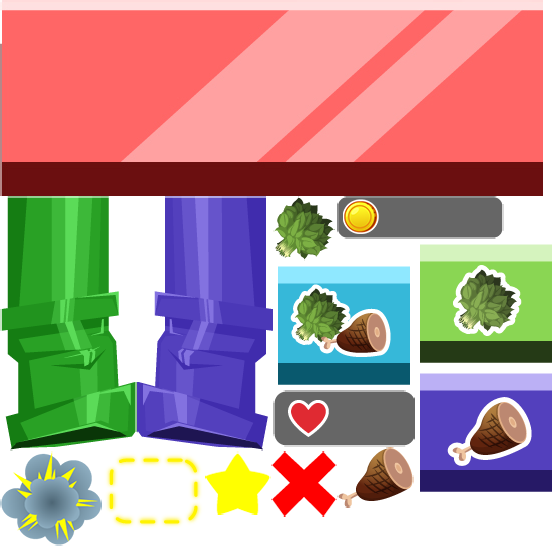
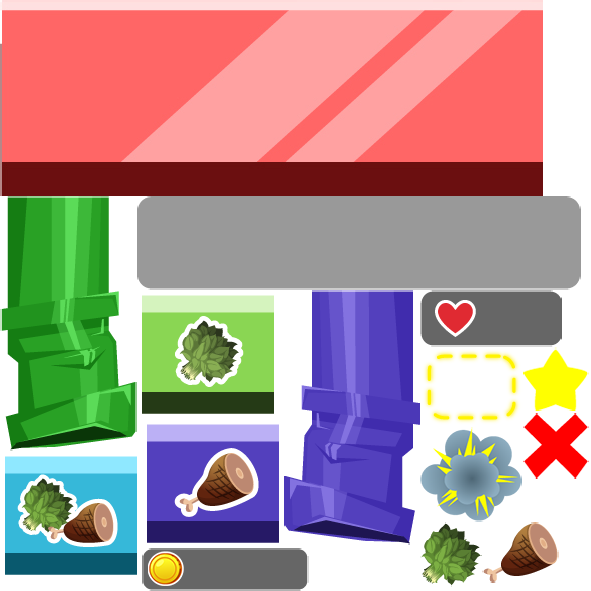
wild feed, education fixed

diff --git a/newStructure/minigames/wildFeed/js/scenes/wildFeed.js b/newStructure/minigames/wildFeed/js/scenes/wildFeed.js
@@ -163,6 +163,7 @@ var wildFeed = function(){
     var hand
     var animalsGroup
     var buttonsGroup
+    var textGroup
     var emojys
     var rand
     var index
@@ -677,7 +678,34 @@ var wildFeed = function(){
         emojys.setSkinByName("normal")
     }
     
+    function createText(){
+        
+        textGroup = game.add.group()
+        textGroup.alpha = 0
+        sceneGroup.add(textGroup)
+        
+        var fontStyle = {font: "60px VAGRounded", fontWeight: "bold", fill: "#FFFFFF", align: "center"}
+        
+        var container = textGroup.create(game.world.centerX, game.world.centerY + 150, "atlas.wildFeed", "container")
+        container.anchor.setTo(0.5)
+        
+        var name = new Phaser.Text(sceneGroup.game, container.centerX, container.centerY + 10, '', fontStyle)
+        name.anchor.setTo(0.5)
+        //name.setText('')
+        textGroup.add(name)
+        textGroup.text = name
+        
+        if(localization.getLanguage() === 'EN'){
+            textGroup.words = ["Herbivorous", "Omnivores", "Carnivorous"]
+        }
+        else{
+            textGroup.words = ["Herbívoros", "Omnívoros", "Carnívoros"]
+        }
+    }
+    
     function superSizeMe(){
+        
+        var fontStyle = {font: "22px VAGRounded", fontWeight: "bold", fill: "#FFFFFF", align: "center"}
         
         var board = sceneGroup.create(0, game.world.height, "atlas.wildFeed", "board")
         board.anchor.setTo(0, 1)
@@ -687,7 +715,10 @@ var wildFeed = function(){
         var pivot = -1
         
         buttonsGroup = game.add.group()
+        buttonsGroup.posX = []
         sceneGroup.add(buttonsGroup)
+        
+        var buttonsName = game.add.group()
         
         for(var i = 0; i < name.length; i++){
             
@@ -696,7 +727,14 @@ var wildFeed = function(){
             button.tag = i
             button.inputEnabled = true
             button.events.onInputDown.add(feedThem, this)
+            button.text
             pivot++
+            buttonsGroup.posX[buttonsGroup.posX.length] = button.x
+            
+            var text = new Phaser.Text(sceneGroup.game, button.centerX, button.centerY + 30, textGroup.words[i], fontStyle)
+            text.anchor.setTo(0.5, 0)
+            //text.setText('')
+            buttonsName.add(text)
         }
         
         buttonsGroup.setAll("tint", 0x606060)
@@ -713,6 +751,9 @@ var wildFeed = function(){
        
         buttonsGroup.children[0].food = vegan
         buttonsGroup.children[2].food = meat
+        
+        buttonsGroup.add(buttonsName)
+        buttonsGroup.buttonsName = buttonsName
     }
     
     function feedThem(btn){
@@ -785,6 +826,8 @@ var wildFeed = function(){
             }
         }
         
+        game.add.tween(textGroup).to({alpha: 1}, 500, Phaser.Easing.linear, true).yoyo(true, 1000)
+        
         if(lives !== 0){
             game.time.events.add(1500,function(){
                 emojys.alpha = 0
@@ -801,6 +844,7 @@ var wildFeed = function(){
         
         buttonsGroup.setAll("tint", 0x606060)
         rand = getRand()
+        textGroup.text.setText(textGroup.words[rand])
         index = game.rnd.integerInRange(0, animalsGroup.children[rand].length - 1)
         animalsGroup.setAll("alpha", 0)
         animalsGroup.children[rand].alpha = 1
@@ -808,14 +852,21 @@ var wildFeed = function(){
         var animal = animalsGroup.children[rand].children[index]
         animal.setAnimationByName(0, "WALK", true)
         
+        var delay = 0
+        
         game.add.tween(animal).to({x: game.world.centerX}, 2000, Phaser.Easing.linear, true).onComplete.add(function(){
             animal.setAnimationByName(0, "IDLE", true)
             emojys.x = game.world.centerX - animal.width * 0.7
             emojys.y = game.world.height - 150 - animal.height * 0.9
-            buttonsGroup.setAll("tint", 0xffffff)
-            emojys.alpha = 1
-            emojys.setAnimationByName(0, "CONFUCED", true)
-            gameActive = true
+            if(pointsBar.number > 9){
+                delay = scramble()
+            }
+            game.time.events.add(delay,function(){
+                buttonsGroup.setAll("tint", 0xffffff)
+                emojys.alpha = 1
+                emojys.setAnimationByName(0, "CONFUCED", true)
+                gameActive = true
+            },this)
         })
     }
     
@@ -825,6 +876,27 @@ var wildFeed = function(){
             return getRand()
         else
             return x     
+    }
+    
+    function scramble(){
+        
+        Phaser.ArrayUtils.shuffle(buttonsGroup.posX)
+                 
+        game.add.tween(buttonsGroup).to({alpha: 0}, 500, Phaser.Easing.linear, true).onComplete.add(function(){
+            
+            for(var i = 0; i < buttonsGroup.length - 1; i++){
+                buttonsGroup.children[i].x = buttonsGroup.posX[i]
+                buttonsGroup.buttonsName.children[i].x = buttonsGroup.posX[i]
+            }
+            
+            if(pointsBar.number > 19){
+                buttonsGroup.buttonsName.alpha = 0
+            }
+            
+            game.add.tween(buttonsGroup).to({alpha: 1}, 500, Phaser.Easing.linear, true)
+        })
+        
+        return 1100
     }
 	
 	return {
@@ -861,6 +933,7 @@ var wildFeed = function(){
 			createHearts()
             initCoin()
             noahArk()
+            createText()
             superSizeMe()
             createParticles()
 			
